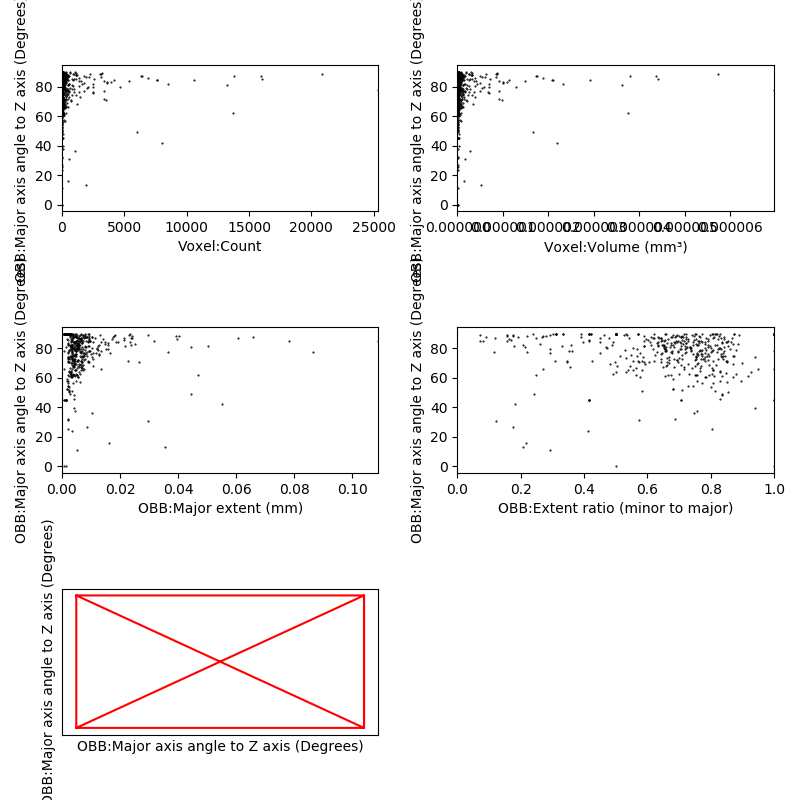
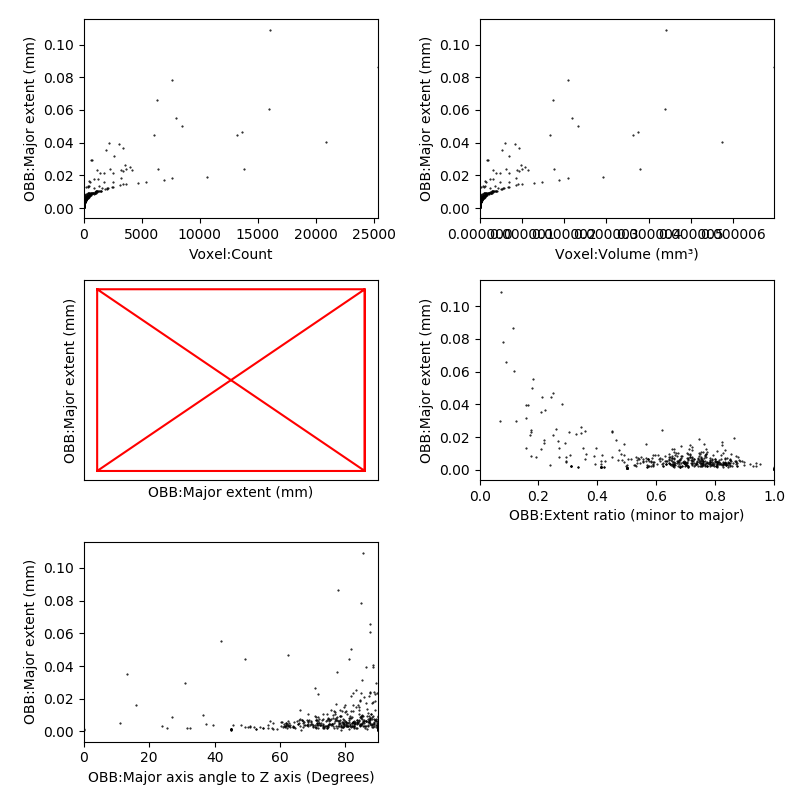
add choice of average method

diff --git a/pyPSD.py b/pyPSD.py
@@ -15,7 +15,7 @@ my_range = []
 
 # %% Calculations
 class voldist(object):
-    def __init__(self, dat, strs, bin_edges):
+    def __init__(self, dat, strs, bin_edges, typ):
         self.dat = dat
         self.strs = strs
         self.volbinsums = []
@@ -26,22 +26,26 @@ class voldist(object):
         self.extstr = strs[ext_col_idx]
         extent = dat[:, ext_col_idx]  # formats primary data and volume columns
 
-        self.counts, self.realbins = np.histogram(extent, bins=bin_edges)  #   [1]
+        self.counts, self.realbins = np.histogram(extent, bins=bin_edges)   [1]
 
-        self.numavg = sum(extent) / len(extent)  #                             [0]
+        self.numavg = sum(extent) / len(extent)  #                          [0]
 
         fidx = np.searchsorted(self.realbins, extent, 'right')
 
-        for i in range(1, len(self.realbins)):  #                              [2]
+        for i in range(1, len(self.realbins)):  #                           [2]
             logc = fidx == i
             self.volbinsums.append(sum(volume[logc]))
 
-      # volbinfracsums = volbinsums / sum(volume)  #                           [0]
-        volfrac = volume / sum(volume)  #                                      [0]
-        self.volavg = sum(extent * volfrac) / len(extent)  #                   [3]
+      # volbinfracsums = volbinsums / sum(volume)  #                        [0]
+        volfrac = volume / sum(volume)  #                                   [0]
+        if typ == (0,0):
+            self.volavg = sum(extent * volfrac) / len(extent)  #            [3] Weighted
+        else:
+            self.volavg = sum(extent**typ[0])/sum(extent**typ[1])
+        
+        
         self.navgstr = 'Number average: ' + str(float('%.8f'%(self.numavg)))
         self.vavgstr = 'Volume average: ' + str(float('%.8f'%(self.volavg)))
-        
 
         self.binlabels = range(0, len(self.volbinsums))
 
@@ -58,13 +62,13 @@ class voldist(object):
             plt.subplot(2, 1, num)
             plt.bar(self.binlabels, yvals,
                     width=1, color='white', linewidth=1, edgecolor='red',
-                    hatch='////', align='edge') #tick_label=self.realbins[1:]
+                    hatch='////', align='edge')
             plt.xlabel(ystr)
             plt.ylabel(xstr)
             plt.xticks(rotation=90)
             plt.annotate(self.navgstr, xy=(0.55, 0.9), xytext=(0.55, 0.9), 
                          textcoords='axes fraction')
-            plt.annotate(self.vavgstr, xy=(0.55, 0.8), xytext=(0.55, 0.8), 
+            plt.annotate(self.vavgstr, xy=(0.55, 0.8), xytext=(0.55, 0.8),
                          textcoords='axes fraction')
             return
         subhistplots(1, self.binlabels, self.counts, 'Counts', self.extstr)
@@ -75,15 +79,12 @@ class voldist(object):
         print(color('Volume average: ', 'green') + str(float('%.8f'%(self.volavg))) + '\n')
         return
 
-       # print('Number Average: ', numavg)
-       # print('Volume Average: (Warning) ', volavg)
-
     def writeout(self):
         binout = self.realbins[1:]
         ostr = [self.extstr, 'Counts', 'Volume']
         odat = np.column_stack([binout, self.counts, self.volbinsums])
         out = np.vstack([ostr,odat])
-        with open('../data/output.csv', 'wb',) as csvout:
+        with open('../data/output.csv', 'wb') as csvout:
             outputwriter = csv.writer(csvout, delimiter=',')
             outputwriter.writerows(out)
         print(color('\n\nshant pass', 'blue') + '\n')
@@ -92,7 +93,7 @@ class voldist(object):
 def scattergrid(ext_col_idx):
     gridsize = 1 + len(dat[0])//2
     scatterplots = plt.figure(num=1, figsize=(8, 8))
-  # plt.suptitle(strs[ext_col_idx])
+    plt.suptitle(strs[ext_col_idx])
     for i in range(1, len(dat[0])+1):
         # creates a grid of scatterplots, per each column pair
         plt.subplot(gridsize, 2, i)
@@ -101,14 +102,13 @@ def scattergrid(ext_col_idx):
             plt.xlim(0, max(dat[:, i-1]))
           # plt.ylim(0, max(dat[:, ext_col_idx-1]))
         else:
-            plt.plot([0,0,1,1,0,1,1,0],[0,1,0,1,0,0,1,1],'r')
+            plt.plot([0, 0, 1, 1, 0, 1, 1, 0],[0, 1, 0, 1, 0, 0, 1, 1],'r')
             plt.xticks([])
             plt.yticks([])
         plt.xlabel(strs[i-1])
-        plt.ylabel(strs[ext_col_idx])
     scatterplots.set_figheight(8)
     scatterplots.set_figwidth(8)
-    plt.tight_layout()
+    plt.gcf().tight_layout()
     plt.show(block=False)
     return
 
@@ -132,7 +132,7 @@ def cmd_next():
     clearplots()
     global idx
     global sig
-    idx += 1 # add ability to break out of program here
+    idx += 1
     sig = False
     return
 def cmd_quit():
@@ -167,7 +167,7 @@ def get_bins():
         my_range = float(my_range)
         bin_edges = np.arange(0, max(dat[:, ext_col_idx]), my_range)
     else:
-        bin_edges = 'auto'
+        bin_edges = 20
     return bin_edges
 
 
@@ -214,6 +214,12 @@ print(color('\n\nYou chose: ', 'green') + strs[vol_col_idx] + '\n')
 # %% Main Loop
 
 idx = 0
+average_method = (0,0) 
+    # Specifiy method of determining volume average:
+    # (Leave blank to calculate weighted average)
+    # Fill in according to D[x,y] parameter
+    # e.g.: De Brouckere mean dia. = (4,3),  Sauter mean dia. = (3,2)
+
 ext_col_ = promptdatcol()
 while True:
     if type(ext_col_) is int:
@@ -224,7 +230,7 @@ while True:
         fig1 = scattergrid(ext_col_[idx])
     sig = True
     while sig == True:
-        v = voldist(dat, strs, get_bins())
+        v = voldist(dat, strs, get_bins(), (0,0))
         fig2 = v.vdplot()
         plt.show()
         menu_cmd()
